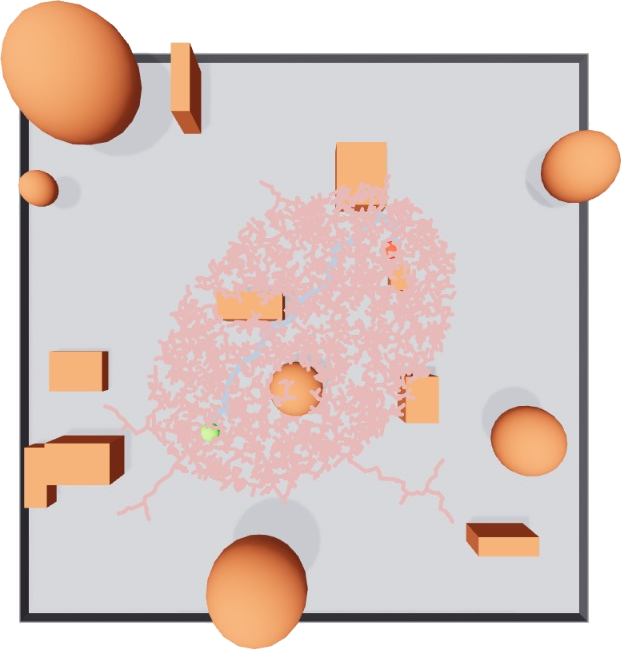
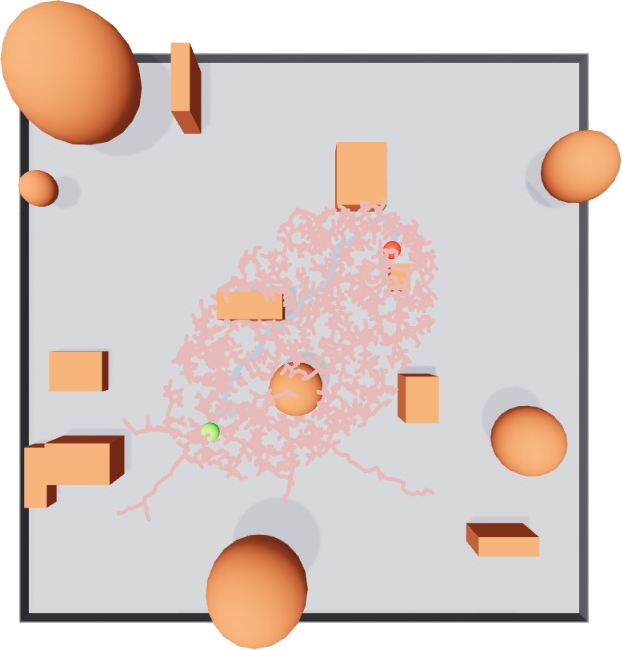
Document informed RRT star comparison
The Informed RRT* example and README now use the same finite-run comparison settings as RRT*, so the docs describe the observed result accurately: equal path quality with slightly faster focused sampling in this run.

Changed region(s): [[0.2138, 0.2769, 0.7331, 0.7692], [0.7026, 0.7692, 0.7331, 0.8], [0.672, 0.7077, 0.7026, 0.7385]]

diff --git a/examples/informed_rrt_star_example.py b/examples/informed_rrt_star_example.py
@@ -69,10 +69,10 @@ def main(seed: int = 42, save_image: bool = False) -> None:
             sampler=GoalBiasedSampler,
             seed=seed,
             step_size=0.2,
-            goal_tolerance=0.2,
-            max_iterations=5000,
+            max_iterations=3000,
+            radius_gain=1.0,
             goal_bias=0.05,
-            radius_gain=0.4,
+            return_first_solution=False,
         ),
     )
 

diff --git a/README.md b/README.md
@@ -197,20 +197,23 @@ uv run python examples/prm_star_example.py
 
 ### 7. Informed RRT* - Comparison with RRT*
 
-Comparison of standard RRT* and its informed variant that uses heuristic sampling for faster convergence.
+Comparison of standard RRT* and its informed variant using the same seed, start/goal, obstacle map, max iterations, step size, and radius gain.
 
 | **RRT* (RRT-Star)** | **Informed RRT*** |
 |---------------------|-------------------|
-| <img src="docs/images/rrt_star_opt_example.png" alt="RRT* Example" width="100%"/> | <img src="docs/images/informed_rrt_star_example.png" alt="Informed RRT* Example" width="100%"/> |
+| <img src="docs/images/rrt_star_opt_example.png" alt="RRT* Example" width="360"/> | <img src="docs/images/informed_rrt_star_example.png" alt="Informed RRT* Example" width="360"/> |
+| Standard RRT* sampling with rewiring.<br/>First goal at iteration : 213<br/>Optimized iterations : 3000<br/>Path length : 11.01<br/>Planning time : 32 seconds<br/>Waypoints : 40<br/>Graph nodes : 2920<br/>Graph edges : 2919<br/>Goal candidates : 154 | Uses RRT* until a first solution exists, then samples inside the informed ellipsoid.<br/>Optimized iterations : 3000<br/>Path length : 11.01<br/>Planning time : 29 seconds<br/>Waypoints : 40<br/>Graph nodes : 2912<br/>Graph edges : 2911<br/>Goal candidates : 18 |
+
+In this run, Informed RRT* does not find a shorter final path than RRT*. Both planners converge to the same path length and waypoint count, while Informed RRT* finishes slightly faster because its post-solution sampling focuses on states that can still improve the current best path.
 
 #### What is Informed RRT*?
 
-An improved version of RRT* that uses informed sampling within an ellipsoidal subset of the state space, leading to faster convergence to optimal solutions.
+An improved version of RRT* that uses informed sampling within an ellipsoidal subset of the state space after a first solution is found. It can improve convergence speed in optimization-focused runs, but it does not guarantee a better path in every finite run.
 
 **Paper**: [Gammell, J. D., et al. (2014). "Informed RRT*: Optimal sampling-based path planning focused via direct sampling of an admissible ellipsoidal heuristic"](https://arxiv.org/pdf/1404.2334)
 
 **Features:**
-- **Faster convergence**: Focuses sampling on regions that can improve the solution
+- **Focused convergence**: Focuses sampling on regions that can improve the solution after a first path exists
 - **Ellipsoidal sampling**: After finding initial solution, samples only within prolate hyperspheroid defined by start, goal, and current best cost
 - **Asymptotic optimality**: Maintains optimality guarantee of RRT*
 - **Informed search**: Uses geometric heuristic to reject samples that cannot improve the path
@@ -228,7 +231,7 @@ An improved version of RRT* that uses informed sampling within an ellipsoidal su
 | Aspect | RRT* | Informed RRT* |
 |--------|------|---------------|
 | **Sampling Strategy** | Uniform sampling over entire space throughout planning | Uniform initially, then focused ellipsoidal sampling after first solution |
-| **Convergence Speed** | Slower - explores entire space | Faster - focuses on promising regions |
+| **Convergence Speed** | Explores the full space throughout planning | Can be faster after the first solution because sampling is focused |
 | **Optimality** | Asymptotically optimal | Asymptotically optimal (same guarantee) |
 | **When to Use** | Unknown environments, first solution priority | Known start/goal, optimization priority |
 
